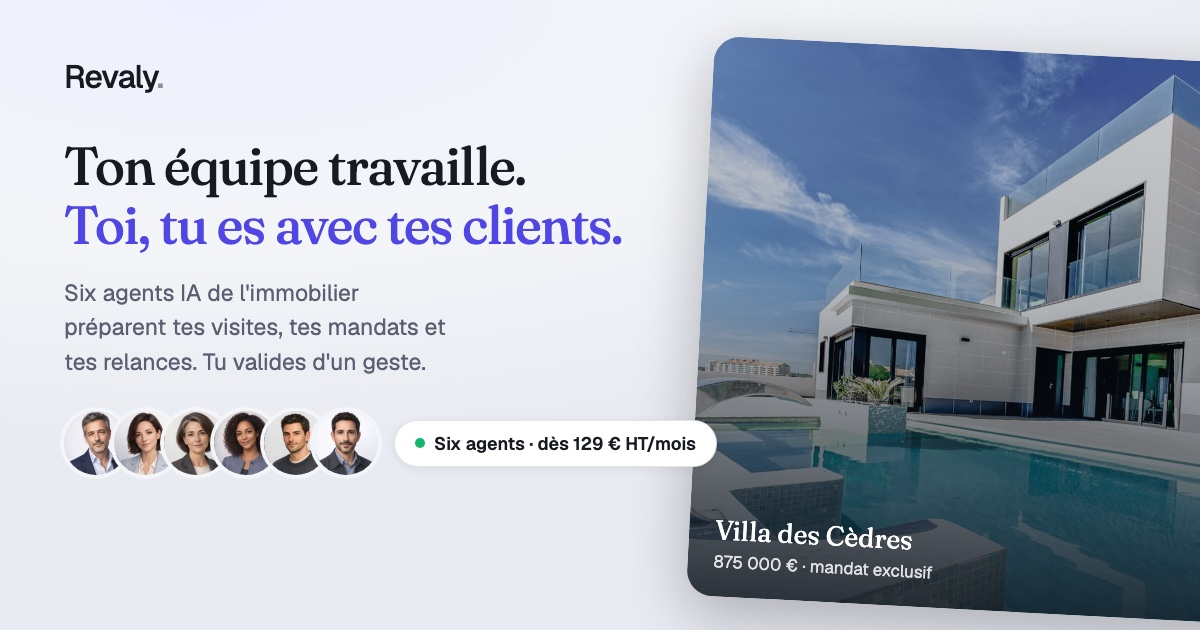
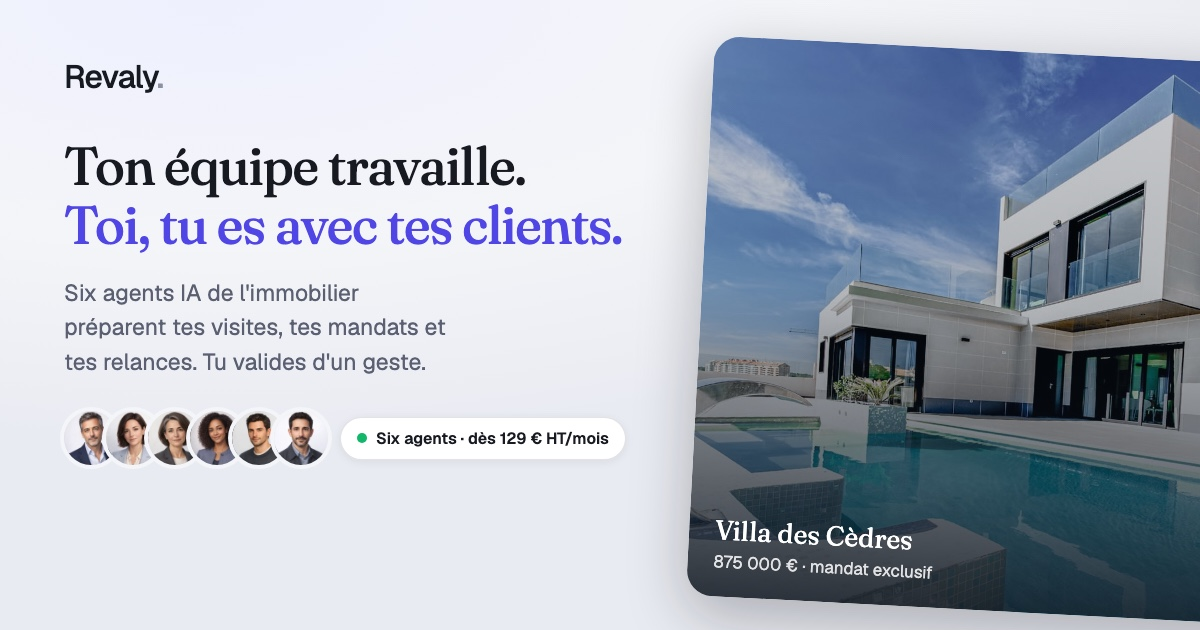
fix(v3): cadre du film en 16/9 sans recadrage, pastille OG, CSS mort du deck retiré

Changed region(s): [[0.0617, 0.6333, 0.6167, 0.754]]

diff --git a/templates/_shell.html b/templates/_shell.html
@@ -192,87 +192,8 @@
   .h-in.d3 { animation-delay: .28s; } .h-in.d4 { animation-delay: .42s; }
   @keyframes hin { to { opacity: 1; transform: none; } }
 
-  /* ── Le deck du matin (réplique fidèle de l'app) ── */
-  .deck-zone { margin-top: 52px; text-align: left; }
-  .nightbar { display: flex; align-items: center; gap: 12px; font-size: 12.5px; color: var(--subtle); padding: 0 4px 14px; }
-  .nightbar .time { font-weight: 600; color: var(--ink); font-variant-numeric: tabular-nums; letter-spacing: .04em; }
-  .nightbar .track {
-    position: relative; flex: 1; height: 2px; border-radius: 2px;
-    background: linear-gradient(90deg, var(--night-1), var(--night-2) 38%, #A5B4FC 86%, #E0E4FE 100%);
-  }
-  .nightbar .spark {
-    position: absolute; top: 50%; left: 8%; width: 8px; height: 8px; border-radius: 50%;
-    background: #C7CDFB; transform: translate(-50%, -50%);
-    animation: sweep 2.6s cubic-bezier(.32,.72,0,1) .6s forwards;
-  }
-  @keyframes sweep { to { left: 100%; } }
-
-  .hero-bien {
-    position: relative; overflow: hidden; border-radius: 22px; min-height: 380px;
-    display: flex; flex-direction: column; justify-content: flex-end;
-    box-shadow: var(--shadow-xl); color: #fff;
-  }
-  .hero-bien img.photo { position: absolute; inset: 0; width: 100%; height: 100%; object-fit: cover; }
-  .hero-bien .scrim {
-    position: absolute; inset: 0;
-    background: linear-gradient(to top, rgba(10,18,28,.94) 0%, rgba(13,24,38,.55) 46%, rgba(15,30,48,.15) 72%, rgba(18,34,54,.42) 100%);
-  }
-  .hero-bien .flag {
-    position: absolute; top: 16px; left: 16px; z-index: 2;
-    display: inline-flex; align-items: center; gap: 8px;
-    background: var(--iris-deep); color: #fff;
-    font-size: 12px; font-weight: 600; text-transform: uppercase; letter-spacing: .1em;
-    padding: 6px 12px; border-radius: 8px;
-  }
-  .hero-bien .flag i { width: 6px; height: 6px; border-radius: 50%; background: currentColor; }
-  .hero-bien .inner { position: relative; z-index: 2; padding: 26px 28px; }
-  .hero-bien .eyebrow {
-    font-size: 12px; font-weight: 600; text-transform: uppercase; letter-spacing: .14em;
-    color: rgba(255,255,255,.65); margin: 0 0 8px;
-  }
-  .hero-bien h2 {
-    font-family: var(--font-display); font-weight: 420;
-    font-size: clamp(25px, 3.4vw, 33px); line-height: 1.15; letter-spacing: -0.02em; margin: 0;
-  }
-  .hero-bien .row { display: flex; align-items: baseline; gap: 16px; margin-top: 10px; flex-wrap: wrap; }
-  .hero-bien .prix { font-size: 24px; font-weight: 500; font-variant-numeric: tabular-nums; }
-  .hero-bien .prix span { font-size: 16px; opacity: .65; font-weight: 400; }
-  .hero-bien .meta { font-size: 14px; color: rgba(255,255,255,.72); }
-  .agent-chips { display: flex; gap: 8px; flex-wrap: wrap; margin-top: 18px; }
-  .achip {
-    display: inline-flex; align-items: center; gap: 8px;
-    padding: 7px 12px 7px 8px; border-radius: 10px;
-    background: rgba(255,255,255,.12); border: 0.5px solid rgba(255,255,255,.2);
-    backdrop-filter: blur(10px); -webkit-backdrop-filter: blur(10px);
-    font-size: 13.5px; color: rgba(255,255,255,.94);
-    opacity: 0; transform: translateY(8px);
-    animation: hin .5s cubic-bezier(.32,.72,0,1) forwards;
-  }
-  .achip:nth-child(1) { animation-delay: 1.1s; }
-  .achip:nth-child(2) { animation-delay: 1.35s; }
-  .achip:nth-child(3) { animation-delay: 1.6s; }
-  .achip b { font-weight: 600; color: #fff; }
   .face { border-radius: 50%; flex: none; object-fit: cover; display: inline-block; }
 
-  /* Bandeau « ils ont travaillé » sous le deck — réplique de l'app */
-  .worked {
-    display: flex; align-items: center; gap: 18px; margin-top: 18px; padding: 15px 20px;
-    background: var(--raised); border-radius: 16px; box-shadow: var(--shadow-sm);
-    border: 0.5px solid var(--line); flex-wrap: wrap;
-  }
-  .worked .faces { display: flex; }
-  .worked .faces .face { box-shadow: 0 0 0 2.5px var(--raised); }
-  .worked .faces .face + .face { margin-left: -9px; }
-  .worked p { margin: 0; flex: 1; min-width: 220px; font-size: 14.5px; color: var(--muted); }
-  .worked p b { color: var(--ink); font-weight: 600; }
-  .worked p .n { font-variant-numeric: tabular-nums; }
-
-  /* ── Rangée équipe (visages réels) ── */
-  .team-strip { display: flex; gap: 26px; flex-wrap: wrap; justify-content: center; margin-top: 34px; }
-  .member { text-align: center; width: 86px; }
-  .member img { width: 64px; height: 64px; box-shadow: inset 0 0 0 1px var(--line-strong), var(--shadow-sm); }
-  .member .nm { font-size: 13.5px; font-weight: 600; margin: 8px 0 0; }
-  .member .rl { font-size: 11.5px; color: var(--subtle); margin: 1px 0 0; line-height: 1.35; }
 
   .tag {
     display: inline-flex; align-items: center; gap: 10px;
@@ -299,19 +220,6 @@
   .bubble.them .face { margin-top: 2px; }
   .bubble .channel { display: block; font-size: 11px; opacity: .65; margin-top: 4px; }
 
-  .member { position: relative; }
-  .member .presence {
-    position: absolute; top: 48px; right: 8px; width: 13px; height: 13px; border-radius: 50%;
-    background: var(--success); box-shadow: 0 0 0 2.5px var(--bg);
-  }
-  .member.offline img { filter: grayscale(1); opacity: .5; }
-  .member.offline .presence { background: var(--subtle); }
-  .member.offline .nm { color: var(--muted); }
-  .member.offline .soon-tag {
-    display: inline-block; margin-top: 3px; padding: 2px 8px; border-radius: 999px;
-    background: var(--bg-soft); border: 0.5px solid var(--line);
-    font-size: 10px; font-weight: 600; text-transform: uppercase; letter-spacing: .06em; color: var(--subtle);
-  }
   /* ── #preuve : la pile de valeur (spec §3.5, design-notes §4.4).
        Séquence unique : 6 lignes en stagger 50 ms (400 ms chacune) → compteur RAF
        animNum 0→2 000 (1,5 s, démarré une fois la pile posée) → « plus de
@@ -929,14 +837,6 @@
   .sticky-cta .btn { width: 100%; justify-content: center; }
   @media (max-width: 760px) { .sticky-cta { display: block; } }
 
-  /* ── Fixes mobile ── */
-  @media (max-width: 520px) {
-    .hero-bien .inner { padding-top: 76px; }
-    .hero-bien .scrim {
-      background: linear-gradient(to top, rgba(10,18,28,.96) 0%, rgba(13,24,38,.72) 55%, rgba(15,30,48,.38) 80%, rgba(18,34,54,.5) 100%);
-    }
-  }
-
   /* ── Marquee connecteurs (pattern 21st porté vanilla) ── */
   .conn-marquee { margin-top: 38px; display: grid; gap: 12px; overflow: hidden;
     -webkit-mask-image: linear-gradient(90deg, transparent, #000 6%, #000 94%, transparent);
@@ -953,19 +853,6 @@
     .mq-row .mq-seq { flex-wrap: wrap; }
     .mq-row .mq-seq[aria-hidden="true"] { display: none; }
     .conn-marquee { mask-image: none; -webkit-mask-image: none; }
-  }
-
-  /* ── Le team-strip « rejoint l'équipe » ── */
-  html.js .team-strip .member { opacity: 0; transform: translateY(14px) scale(.92); transition: opacity .5s cubic-bezier(.32,.72,0,1), transform .5s cubic-bezier(.32,.72,0,1); }
-  html.js .team-strip .member .presence { transform: scale(0); transition: transform .3s cubic-bezier(.34,1.56,.64,1) .35s; }
-  html.js .team-strip.joined .member { opacity: 1; transform: none; }
-  html.js .team-strip.joined .member .presence { transform: scale(1); }
-  html.js .team-strip .member:nth-child(1) { transition-delay: 0s; }
-  html.js .team-strip .member:nth-child(2) { transition-delay: .12s; }
-  html.js .team-strip .member:nth-child(3) { transition-delay: .24s; }
-  html.js .team-strip .member:nth-child(4) { transition-delay: .36s; }
-  @media (prefers-reduced-motion: reduce) {
-    html.js .team-strip .member, html.js .team-strip .member .presence { opacity: 1; transform: none; transition: none; }
   }
 
   /* ── Aurora hero (ambiance premium, très lente) ── */
@@ -994,42 +881,18 @@
   .plan:hover::before { opacity: 1; }
   @media (hover: none) { .plan::before { display: none; } }
 
-  /* ── Vidéo hero (rendu Remotion) : desktop uniquement, la carte statique sert
-       de repli mobile + reduced-motion + no-JS ── */
-  .hero-video {
-    display: none; width: 100%; aspect-ratio: 1200 / 500; object-fit: cover;
-    border-radius: 22px; box-shadow: var(--shadow-xl); background: var(--night-1);
-  }
-  @media (min-width: 761px) and (prefers-reduced-motion: no-preference) {
-    .hero-video { display: block; }
-    .hero-video + .hero-bien { display: none; }
-  }
-  /* Ticker 24/24 : remplace la vidéo quand elle est masquée (mobile, reduced-motion, no-JS) */
-  .ticker24 { display: flex; flex-direction: column; gap: 8px; margin-top: 12px; }
-  .t24-row {
-    display: flex; align-items: center; gap: 10px;
-    background: var(--raised); border: 1px solid var(--line); border-radius: 12px;
-    padding: 10px 14px; font-size: 13.5px; color: var(--ink); line-height: 1.4;
-    box-shadow: var(--shadow-sm);
-  }
-  .t24-row .t24-time { font-variant-numeric: tabular-nums; font-weight: 600; color: var(--iris); flex: none; }
-  .t24-row .face { border-radius: 50%; flex: none; }
-  @media (min-width: 761px) and (prefers-reduced-motion: no-preference) {
-    .ticker24 { display: none; }
-  }
-
   /* ── Film du haut de page (v3) : cadre aux dimensions réservées, zéro décalage ── */
   .hero h1 { max-width: 1040px; }
   .hero h1 .h1-big { font-size: clamp(40px, 6.4vw, 78px); }
   .hero h1 .h1-second { margin-top: 2px; }
+  .hero-cta .hint .nw { white-space: nowrap; }
   .hero .sub, .hero-cta .hint { text-wrap: balance; }
   .film-zone { margin-top: 48px; position: relative; text-align: center; }
   .film-frame {
-    position: relative; width: 100%; aspect-ratio: 4 / 3; overflow: hidden;
+    position: relative; width: 100%; aspect-ratio: 16 / 9; overflow: hidden;
     border-radius: 22px; box-shadow: var(--shadow-xl); background: var(--night-1);
   }
-  @media (min-width: 761px) { .film-frame { aspect-ratio: 12 / 5; } }
-  .film-frame video, .film-frame .film-still { position: absolute; inset: 0; width: 100%; height: 100%; object-fit: cover; }
+  .film-frame video, .film-frame .film-still { position: absolute; inset: 0; width: 100%; height: 100%; object-fit: contain; }
   .film-frame .film-still { display: none; }
   .film-btn {
     display: inline-flex; align-items: center; gap: 9px; min-height: 48px; padding: 10px 22px; margin-top: 18px;

diff --git a/templates/home-body.html b/templates/home-body.html
@@ -24,7 +24,7 @@
     <div class="hero-cta h-in d3">
       <button type="button" class="btn" data-goto-tarif data-track="essai">Essayer 7 jours <span class="arr" aria-hidden="true">→</span></button>
       <a class="btn ghost" href="__CALENDLY__" target="_blank" rel="noopener" data-track="demo">Réserver une démo</a>
-      <span class="hint">Branché sur Modelo · Sans engagement · Rien ne part sans toi</span>
+      <span class="hint"><span class="nw">Branché sur Modelo ·</span> <span class="nw">Sans engagement ·</span> <span class="nw">Rien ne part sans toi</span></span>
     </div>
 
     <div class="film-zone h-in d4">
@@ -32,6 +32,7 @@
         <video id="film-boucle" autoplay muted loop playsinline preload="metadata" poster="film/poster.jpg" aria-hidden="true" tabindex="-1">
           <source src="film/boucle.mp4" type="video/mp4" />
         </video>
+        <script>if (matchMedia('(prefers-reduced-motion: reduce)').matches) { var v = document.getElementById('film-boucle'); v.preload = 'none'; v.removeAttribute('autoplay'); }</script>
         <img class="film-still" src="film/poster.jpg" alt="" width="2400" height="1000" />
       </div>
       <button type="button" id="voir-film" class="film-btn" data-track="film" aria-haspopup="dialog">
@@ -585,8 +586,6 @@
 
   const REDUCED = window.matchMedia('(prefers-reduced-motion: reduce)').matches;
 
-  // ── Le team-strip « rejoint l'équipe » (cascade au chargement) ──
-  setTimeout(() => { const ts = document.querySelector('.team-strip'); if (ts) ts.classList.add('joined'); }, REDUCED ? 0 : 700);
 
   // ── Vidéo hero : joue quand elle est à l'écran, se met en pause hors champ ──
   const hv = document.getElementById('film-boucle');

diff --git a/og-src.html b/og-src.html
@@ -19,12 +19,12 @@
     line-height:1.12; letter-spacing:-0.02em; margin-top:40px; }
   h1 .iris { color:#4F46E5; }
   .sub { text-wrap:balance; margin-top:20px; font-size:23px; line-height:1.5; color:#5A6072; max-width:520px; }
-  .team { display:flex; align-items:center; margin-top:32px; gap:16px; }
+  .team { display:flex; align-items:center; margin-top:32px; gap:12px; }
   .faces { display:flex; }
-  .faces img { width:64px; height:64px; border-radius:50%; box-shadow:0 0 0 4px #F4F5F8; }
-  .faces img + img { margin-left:-14px; }
+  .faces img { width:54px; height:54px; border-radius:50%; box-shadow:0 0 0 4px #F4F5F8; }
+  .faces img + img { margin-left:-12px; }
   .pill { white-space:nowrap; display:inline-flex; align-items:center; gap:9px; background:#fff; border:1px solid rgba(23,26,33,.12);
-    border-radius:999px; padding:11px 20px; font-size:18px; font-weight:600; color:#171A21;
+    border-radius:999px; padding:10px 16px; font-size:16px; font-weight:600; color:#171A21;
     box-shadow: 0 2px 10px rgba(23,26,33,.07); }
   .dot { width:10px; height:10px; border-radius:50%; background:#12B76A; }
 </style></head><body>

diff --git a/tests/test_build.py b/tests/test_build.py
@@ -255,7 +255,7 @@ must("rvTrack('essai_demarre')" in bienv, "essai démarré mesuré au retour de 
 print("OK v3 données et texte")
 # ── Task 3 : haut de page v3 ──
 must("Ton équipe travaille. Toi, tu es avec tes clients." in re.sub(r"<[^>]+>", "", idx), "titre v3")
-must("Branché sur Modelo · Sans engagement · Rien ne part sans toi" in idx, "réassurance")
+must("Branché sur Modelo · Sans engagement · Rien ne part sans toi" in re.sub(r"<[^>]+>", "", idx), "réassurance")
 must('id="film-boucle"' in idx and "muted" in idx and "playsinline" in idx, "boucle muette")
 must('id="voir-film"' in idx and 'id="film-dialog"' in idx, "lecteur du film")
 must('data-track="film"' in idx, "lecture du film mesurée")
